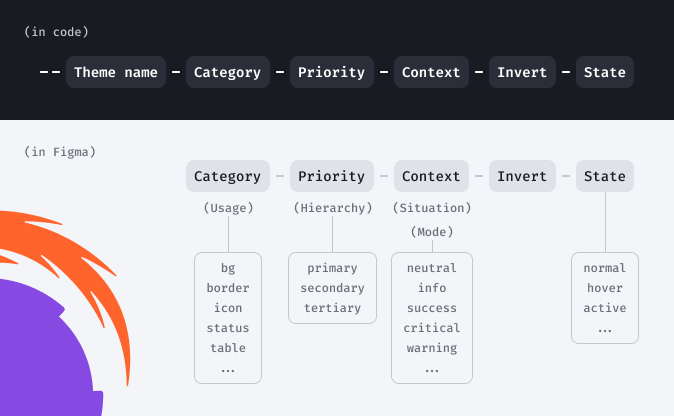
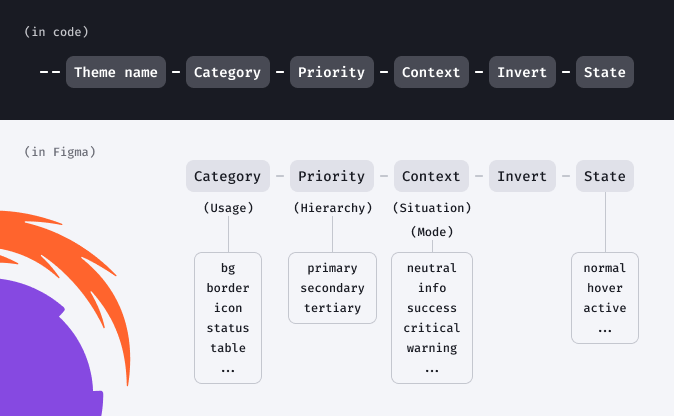
[website] update illustrations and fix typo

diff --git a/website/docs/style/design-tokens/design-tokens.md b/website/docs/style/design-tokens/design-tokens.md
@@ -27,7 +27,7 @@ Shades of the same color have a value ranging from 50 to 800, depending on its t
 
 There is a list of tokens for components and charts for the default Intergalactic theme.
 
-Semantic tokens includes tokens for:
+Semantic tokens include tokens for:
 
 - colors;
 - typography;
